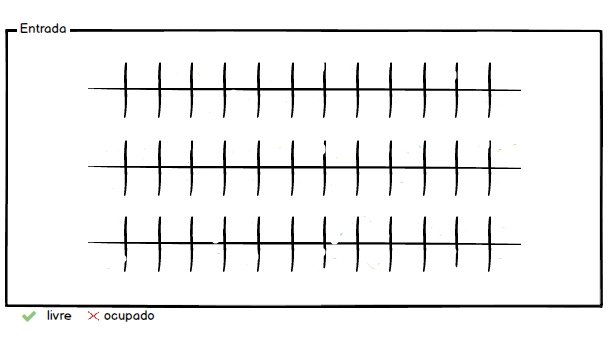
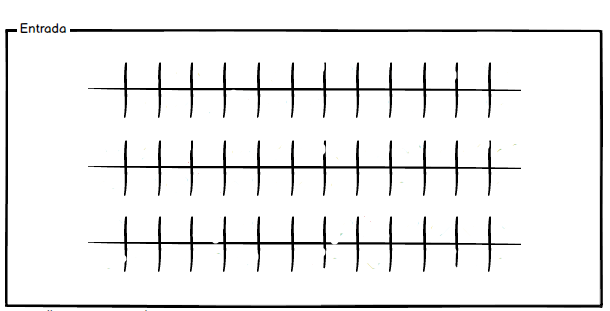
Imagem atualizada e a aparecer

diff --git a/src/gps/TelaLugaresLivres.java b/src/gps/TelaLugaresLivres.java
@@ -30,7 +30,7 @@ public class TelaLugaresLivres extends javax.swing.JFrame {
         jButton2 = new javax.swing.JButton();
         jLabel1 = new javax.swing.JLabel();
         jButton3 = new javax.swing.JButton();
-        jPanel1 = new javax.swing.JPanel();
+        jLabel2 = new javax.swing.JLabel();
 
         jButton2.setText("<");
         jButton2.addActionListener(new java.awt.event.ActionListener() {
@@ -40,7 +40,6 @@ public class TelaLugaresLivres extends javax.swing.JFrame {
         });
 
         setDefaultCloseOperation(javax.swing.WindowConstants.EXIT_ON_CLOSE);
-        setPreferredSize(new java.awt.Dimension(628, 502));
 
         jLabel1.setFont(new java.awt.Font("Segoe UI Black", 0, 24)); // NOI18N
         jLabel1.setText("  Lugares Livres");
@@ -53,16 +52,7 @@ public class TelaLugaresLivres extends javax.swing.JFrame {
             }
         });
 
-        javax.swing.GroupLayout jPanel1Layout = new javax.swing.GroupLayout(jPanel1);
-        jPanel1.setLayout(jPanel1Layout);
-        jPanel1Layout.setHorizontalGroup(
-            jPanel1Layout.createParallelGroup(javax.swing.GroupLayout.Alignment.LEADING)
-            .addGap(0, 511, Short.MAX_VALUE)
-        );
-        jPanel1Layout.setVerticalGroup(
-            jPanel1Layout.createParallelGroup(javax.swing.GroupLayout.Alignment.LEADING)
-            .addGap(0, 361, Short.MAX_VALUE)
-        );
+        jLabel2.setIcon(new javax.swing.ImageIcon(getClass().getResource("/imagens/74836803_2373157206140142_1259084166926958592_n.png"))); // NOI18N
 
         javax.swing.GroupLayout layout = new javax.swing.GroupLayout(getContentPane());
         getContentPane().setLayout(layout);
@@ -70,14 +60,15 @@ public class TelaLugaresLivres extends javax.swing.JFrame {
             layout.createParallelGroup(javax.swing.GroupLayout.Alignment.LEADING)
             .addGroup(layout.createSequentialGroup()
                 .addContainerGap()
-                .addComponent(jButton3)
-                .addPreferredGap(javax.swing.LayoutStyle.ComponentPlacement.RELATED, 167, Short.MAX_VALUE)
-                .addComponent(jLabel1, javax.swing.GroupLayout.PREFERRED_SIZE, 212, javax.swing.GroupLayout.PREFERRED_SIZE)
-                .addGap(206, 206, 206))
-            .addGroup(layout.createSequentialGroup()
-                .addGap(57, 57, 57)
-                .addComponent(jPanel1, javax.swing.GroupLayout.PREFERRED_SIZE, javax.swing.GroupLayout.DEFAULT_SIZE, javax.swing.GroupLayout.PREFERRED_SIZE)
-                .addContainerGap(javax.swing.GroupLayout.DEFAULT_SIZE, Short.MAX_VALUE))
+                .addGroup(layout.createParallelGroup(javax.swing.GroupLayout.Alignment.LEADING)
+                    .addGroup(layout.createSequentialGroup()
+                        .addComponent(jButton3)
+                        .addPreferredGap(javax.swing.LayoutStyle.ComponentPlacement.RELATED, 167, Short.MAX_VALUE)
+                        .addComponent(jLabel1, javax.swing.GroupLayout.PREFERRED_SIZE, 212, javax.swing.GroupLayout.PREFERRED_SIZE)
+                        .addGap(206, 206, 206))
+                    .addGroup(layout.createSequentialGroup()
+                        .addComponent(jLabel2, javax.swing.GroupLayout.DEFAULT_SIZE, javax.swing.GroupLayout.DEFAULT_SIZE, Short.MAX_VALUE)
+                        .addContainerGap())))
         );
         layout.setVerticalGroup(
             layout.createParallelGroup(javax.swing.GroupLayout.Alignment.LEADING)
@@ -89,9 +80,9 @@ public class TelaLugaresLivres extends javax.swing.JFrame {
                     .addGroup(layout.createSequentialGroup()
                         .addContainerGap()
                         .addComponent(jButton3)))
-                .addGap(49, 49, 49)
-                .addComponent(jPanel1, javax.swing.GroupLayout.PREFERRED_SIZE, javax.swing.GroupLayout.DEFAULT_SIZE, javax.swing.GroupLayout.PREFERRED_SIZE)
-                .addContainerGap(30, Short.MAX_VALUE))
+                .addGap(18, 18, 18)
+                .addComponent(jLabel2, javax.swing.GroupLayout.PREFERRED_SIZE, 383, javax.swing.GroupLayout.PREFERRED_SIZE)
+                .addContainerGap(39, Short.MAX_VALUE))
         );
 
         pack();
@@ -148,6 +139,6 @@ public class TelaLugaresLivres extends javax.swing.JFrame {
     private javax.swing.JButton jButton2;
     private javax.swing.JButton jButton3;
     private javax.swing.JLabel jLabel1;
-    private javax.swing.JPanel jPanel1;
+    private javax.swing.JLabel jLabel2;
     // End of variables declaration//GEN-END:variables
 }
